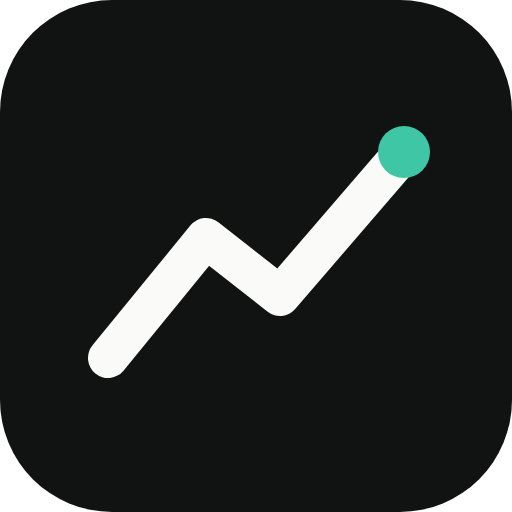
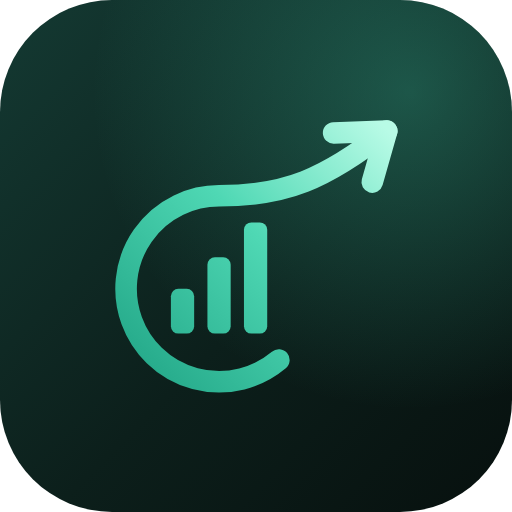
Nuova icona: euro con barre e freccia, dentro la zona sicura circolare
Claude-Session: https://claude.ai/code/session_01FyNNo7LKZ2jQcS7GzH1apx

diff --git a/sw.js b/sw.js
@@ -1,6 +1,6 @@
 // Service worker di myMoney: rende l'app installabile e utilizzabile anche senza rete.
 // Aumenta VERSION quando cambi l'elenco dei file in CORE.
-const VERSION = "mymoney-v1";
+const VERSION = "mymoney-v2";
 const CORE = ["./", "index.html", "manifest.webmanifest", "icons/icon.svg", "icons/icon-192.png", "icons/icon-512.png", "icons/icon-maskable-512.png", "icons/apple-touch-icon.png"];
 
 self.addEventListener("install", e => {
